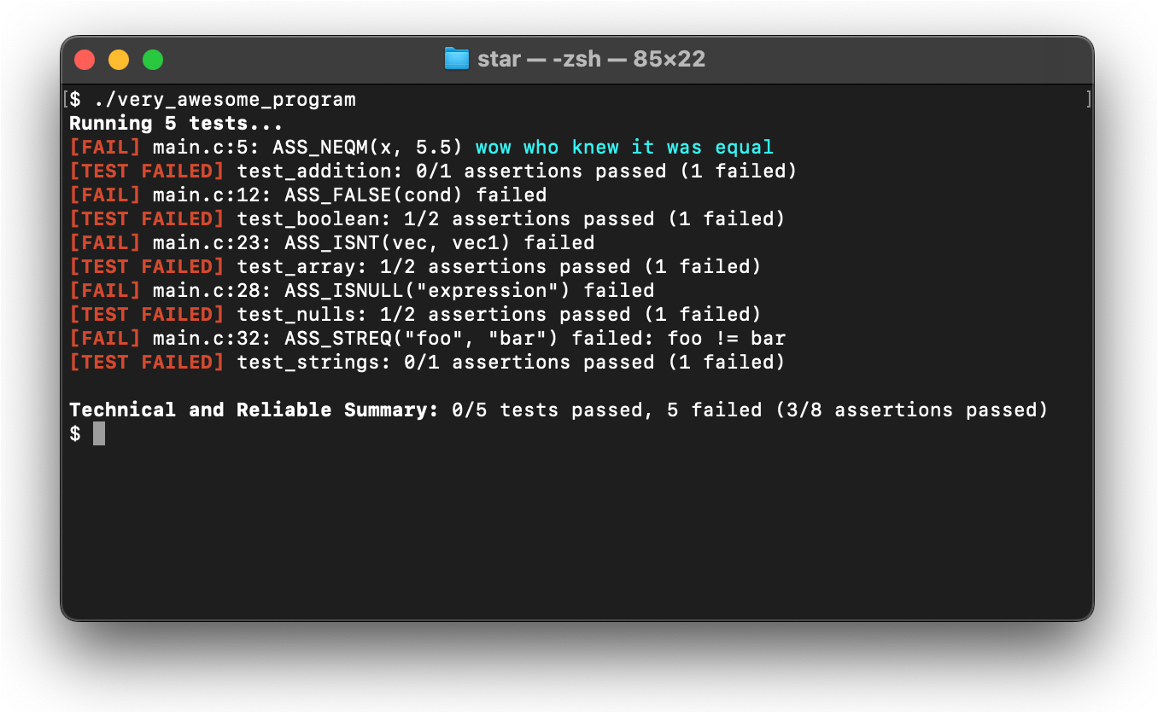
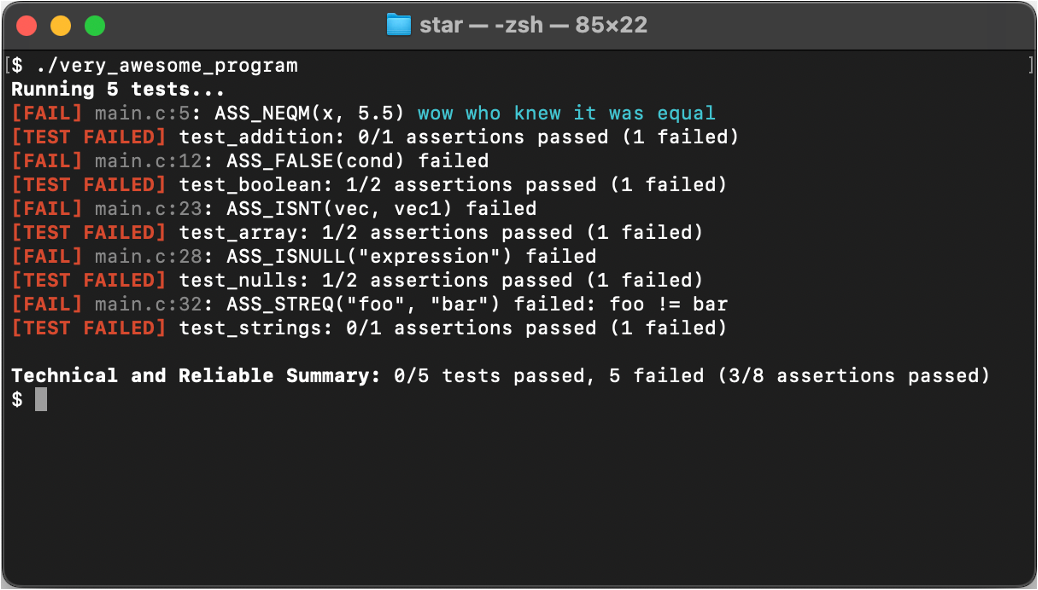
update color

diff --git a/star.h b/star.h
@@ -60,7 +60,7 @@ static const int _star_verbose = 0;
 #if !defined(STAR_NO_COLOR)
 #define _STAR_FAIL(format, ...)                             \
     do {                                                    \
-        fprintf(stderr, "\033[1;31m[FAIL]\033[0m %s:%d: ",  \
+        fprintf(stderr, "\033[1;31m[FAIL]\033[0m \033[2m%s:%d\033[0m: ",  \
                 __FILE__, __LINE__);                        \
         fprintf(stderr, format "\n", ##__VA_ARGS__);        \
     } while (0)
@@ -74,7 +74,7 @@ static const int _star_verbose = 0;
 #define _STAR_PASS(format, ...)         printf("\033[1;32m[PASS]\033[0m " format "\n", ##__VA_ARGS__)
 #define _STAR_TEST_PASS(format, ...)    printf("\033[1;32m[TEST PASSED]\033[0m " format "\n", ##__VA_ARGS__)
 #define _STAR_SUMMARY(format, ...)      printf("\n\033[1mTechnical and Reliable Summary:\033[0m " format "\n", ##__VA_ARGS__)
-#define _STAR_CUSTOM(msg) "\033[96m" msg "\033[0m"
+#define _STAR_CUSTOM(msg) "\033[36m" msg "\033[0m"
 #else
 #define _STAR_FAIL(format, ...)                      \
     do {                                             \
@@ -561,7 +561,8 @@ int main(int argc, char** argv) {
 #endif /* STAR_TEST_H */
 
 /*
-    Revision history:   
+    Revision history:
+        0.5.1  (2025-11-24)  Custom message color is now normal intensity cyan.   
         0.5.0  (2025-11-24)  Changes:
                                 - 0.4.1: `STAR_VERBOSE` also works in addition to `STAR_VERBOSE_ASSERTS`.
                                 - 0.4.2: Now using epsilon-based floating point comparison.
